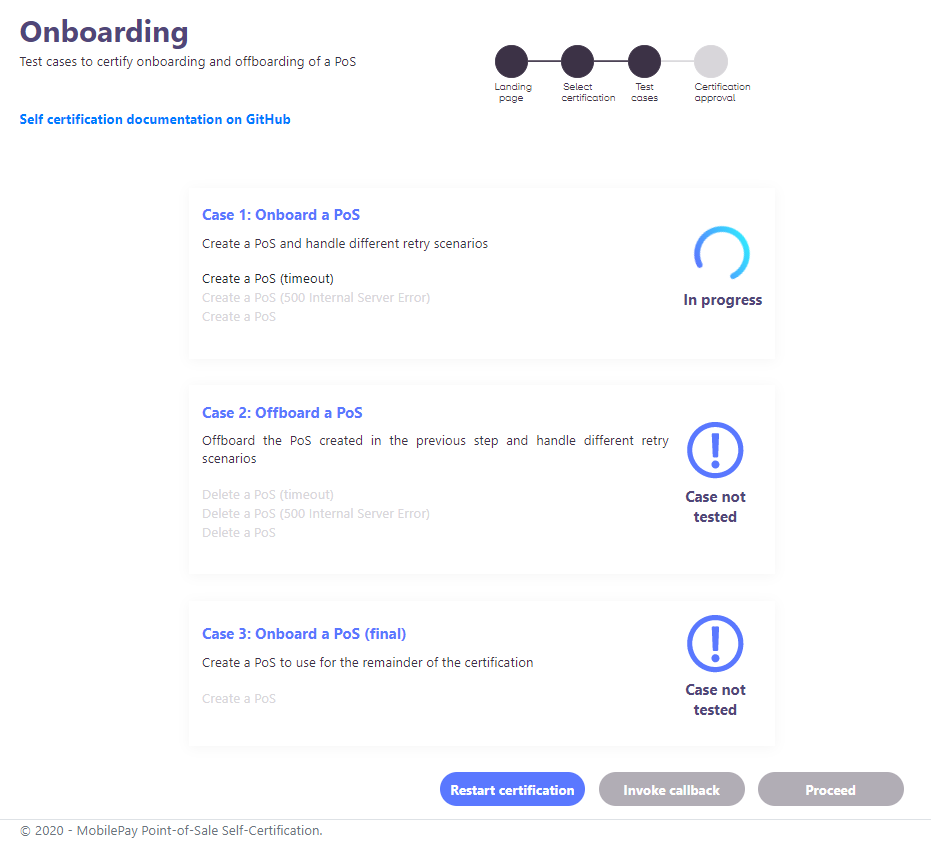
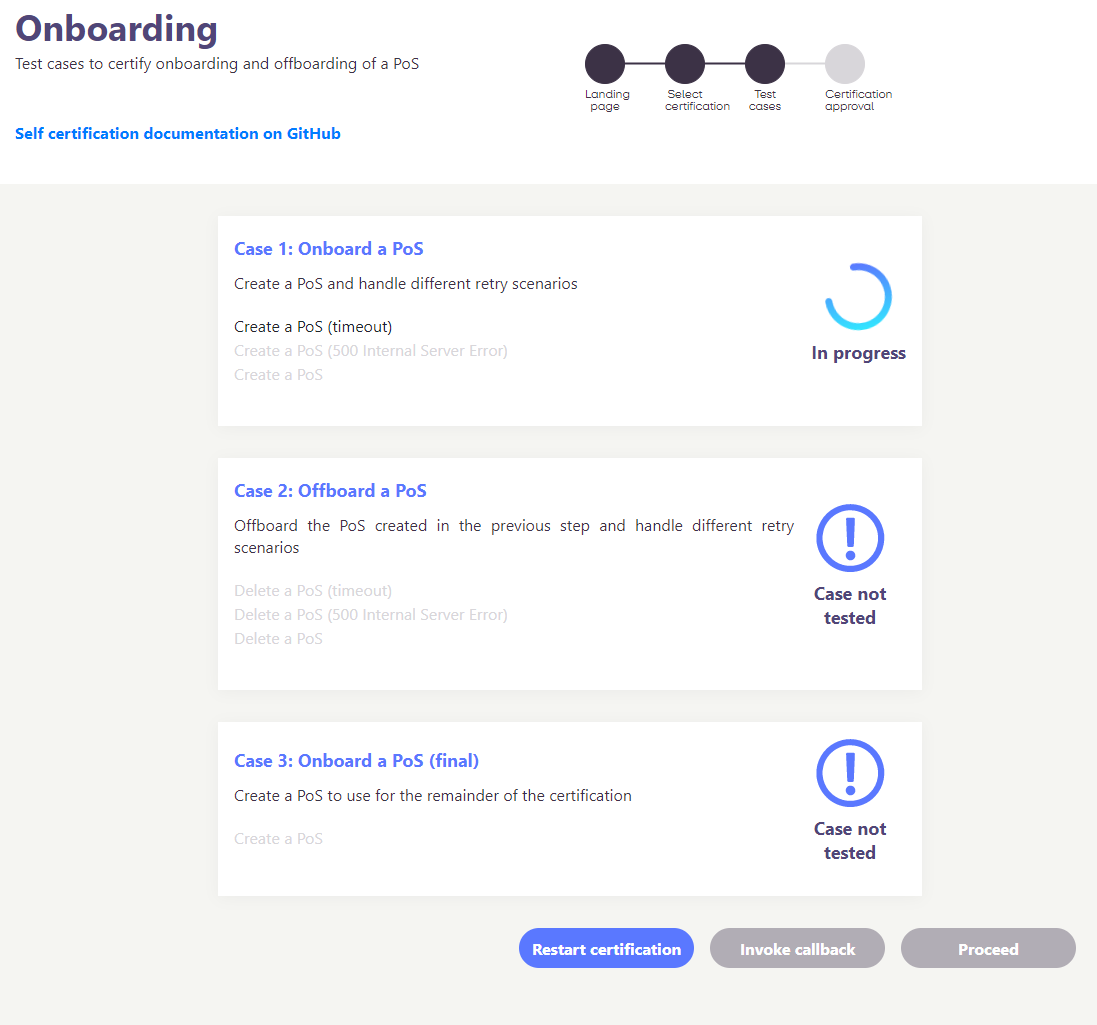
Removes IntegratorId and updates selfcert screenshots (#16)
* Removed mention of IntegratoriId

* Delete identificationstep.PNG

* Add files via upload

* Add files via upload

* Add files via upload

* Delete onboarding-cases.PNG

* Add files via upload

* Update release_notes.md

diff --git a/docs/self_certification.md b/docs/self_certification.md
@@ -11,7 +11,6 @@ The Self Certification process has four steps: Identification, Selection, Certif
 
 ## Identification Step
 In the first step the Integrator identifies themselves in the tool. The following information is needed:
-* Integrator IDs for Sandproduction and Production - ID received from MobilePay per mail, which identifies the Integrator organisation itself. Each Integrator should only have one Integrator ID for sandproduction and one Integrator ID for production.
 * Client IDs for Sandproduction and Production - ID created on the MobilePay Developer Portal which identifies the client to be certified. Each Integrator is allowed to create multiple Client IDs, however it is also acceptable to have just one Client ID.
 * Version numbering - The three dimensional number that defines the version of the Client that needs to be certified. See [Client Identification](api_principles#client_identification)
 * Client system name - the name of the software being certified.

diff --git a/docs/release_notes.md b/docs/release_notes.md
@@ -4,6 +4,11 @@ The Point of Sale API V10 is now in production.
 
 ## Changelog
 
+### 2020-09-08
+- Removed Integrator ID from [Self Certification](self_certification)
+- Updated screenshots in [Self Certification](self_certification)
+
+---
 ### 2020-09-02
 - Changed and updated how Refunds is planned to work. See description in [Payment Flows](payment_flows#refunds). Release of Refunds are planned to Ultimo September.
 
